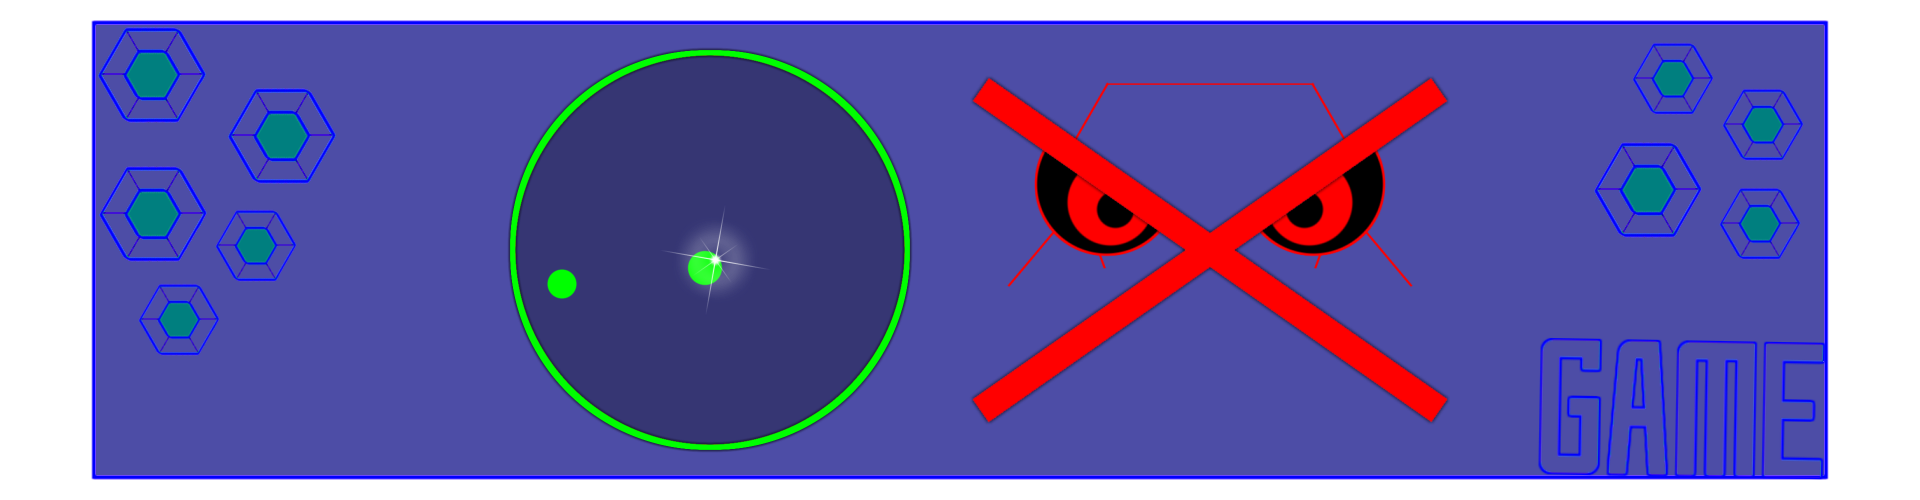
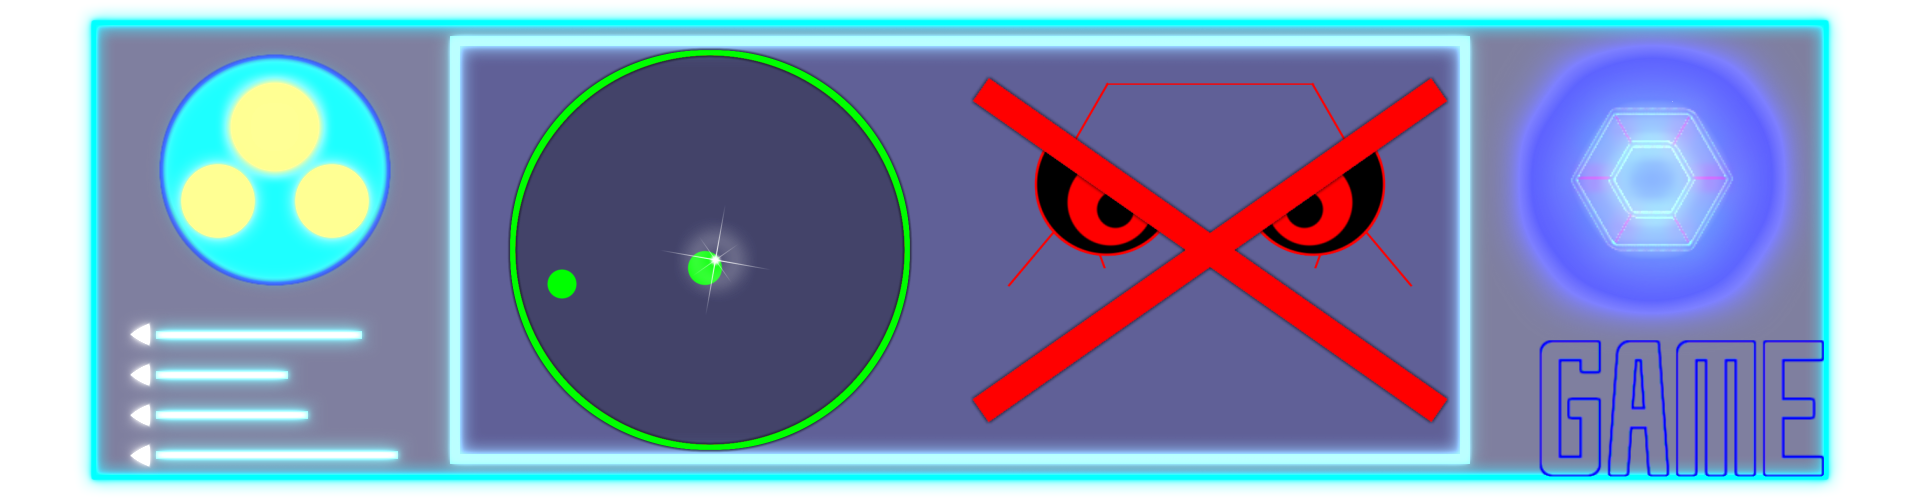
スタート画面に画像を追加。

diff --git a/src/js/lib/Page.js b/src/js/lib/Page.js
@@ -40,7 +40,9 @@ export default class Page {
 
     this.resource = {
       title: RESOURCE_PATH + TITLE_PATH +'logo.png',
-      start: RESOURCE_PATH + TITLE_PATH +'start.png'
+      start: RESOURCE_PATH + TITLE_PATH +'start.png',
+      maruProf: RESOURCE_PATH + TITLE_PATH +'maru_prof.png',
+      batsuProf: RESOURCE_PATH + TITLE_PATH +'batsu_prof.png'
     }// end resource
 
     this.movies = {
@@ -124,6 +126,22 @@ export default class Page {
   addStart () {
     this.painter.ctx.save();
     this.painter.ctx.globalAlpha = 0.9;
+    this.painter.alignImage(this.resource.maruProf, {
+      x: 0.5,
+      y: 0.5,
+      fit: 'height',
+      scale: 0.3,
+      offsetX: 300,
+      offsetY: 250
+    });// end alignImage
+    this.painter.alignImage(this.resource.batsuProf, {
+      x: 0.5,
+      y: 0.5,
+      fit: 'height',
+      scale: 0.3,
+      offsetX: -300,
+      offsetY: -250
+    });// end alignImage
     this.painter.alignImage(this.resource.start, {
       x: 0.5,
       y: 0.5,

diff --git a/src/js/lib/Fireworks.js b/src/js/lib/Fireworks.js
@@ -7,7 +7,7 @@ const FIREWORKS_FADEOUT = 250;
 const FIREWORKS_VOLUME = 300;
 const SPREAD = 6.5;
 const GRAVITY = 1.15;
-const BALL_SIZE = 3;
+const BALL_SIZE = 2.5;
 const LOCUS_LIMIT = 11;
 const LOCUS_COE = 0.3;
 const START_COLOR = {
